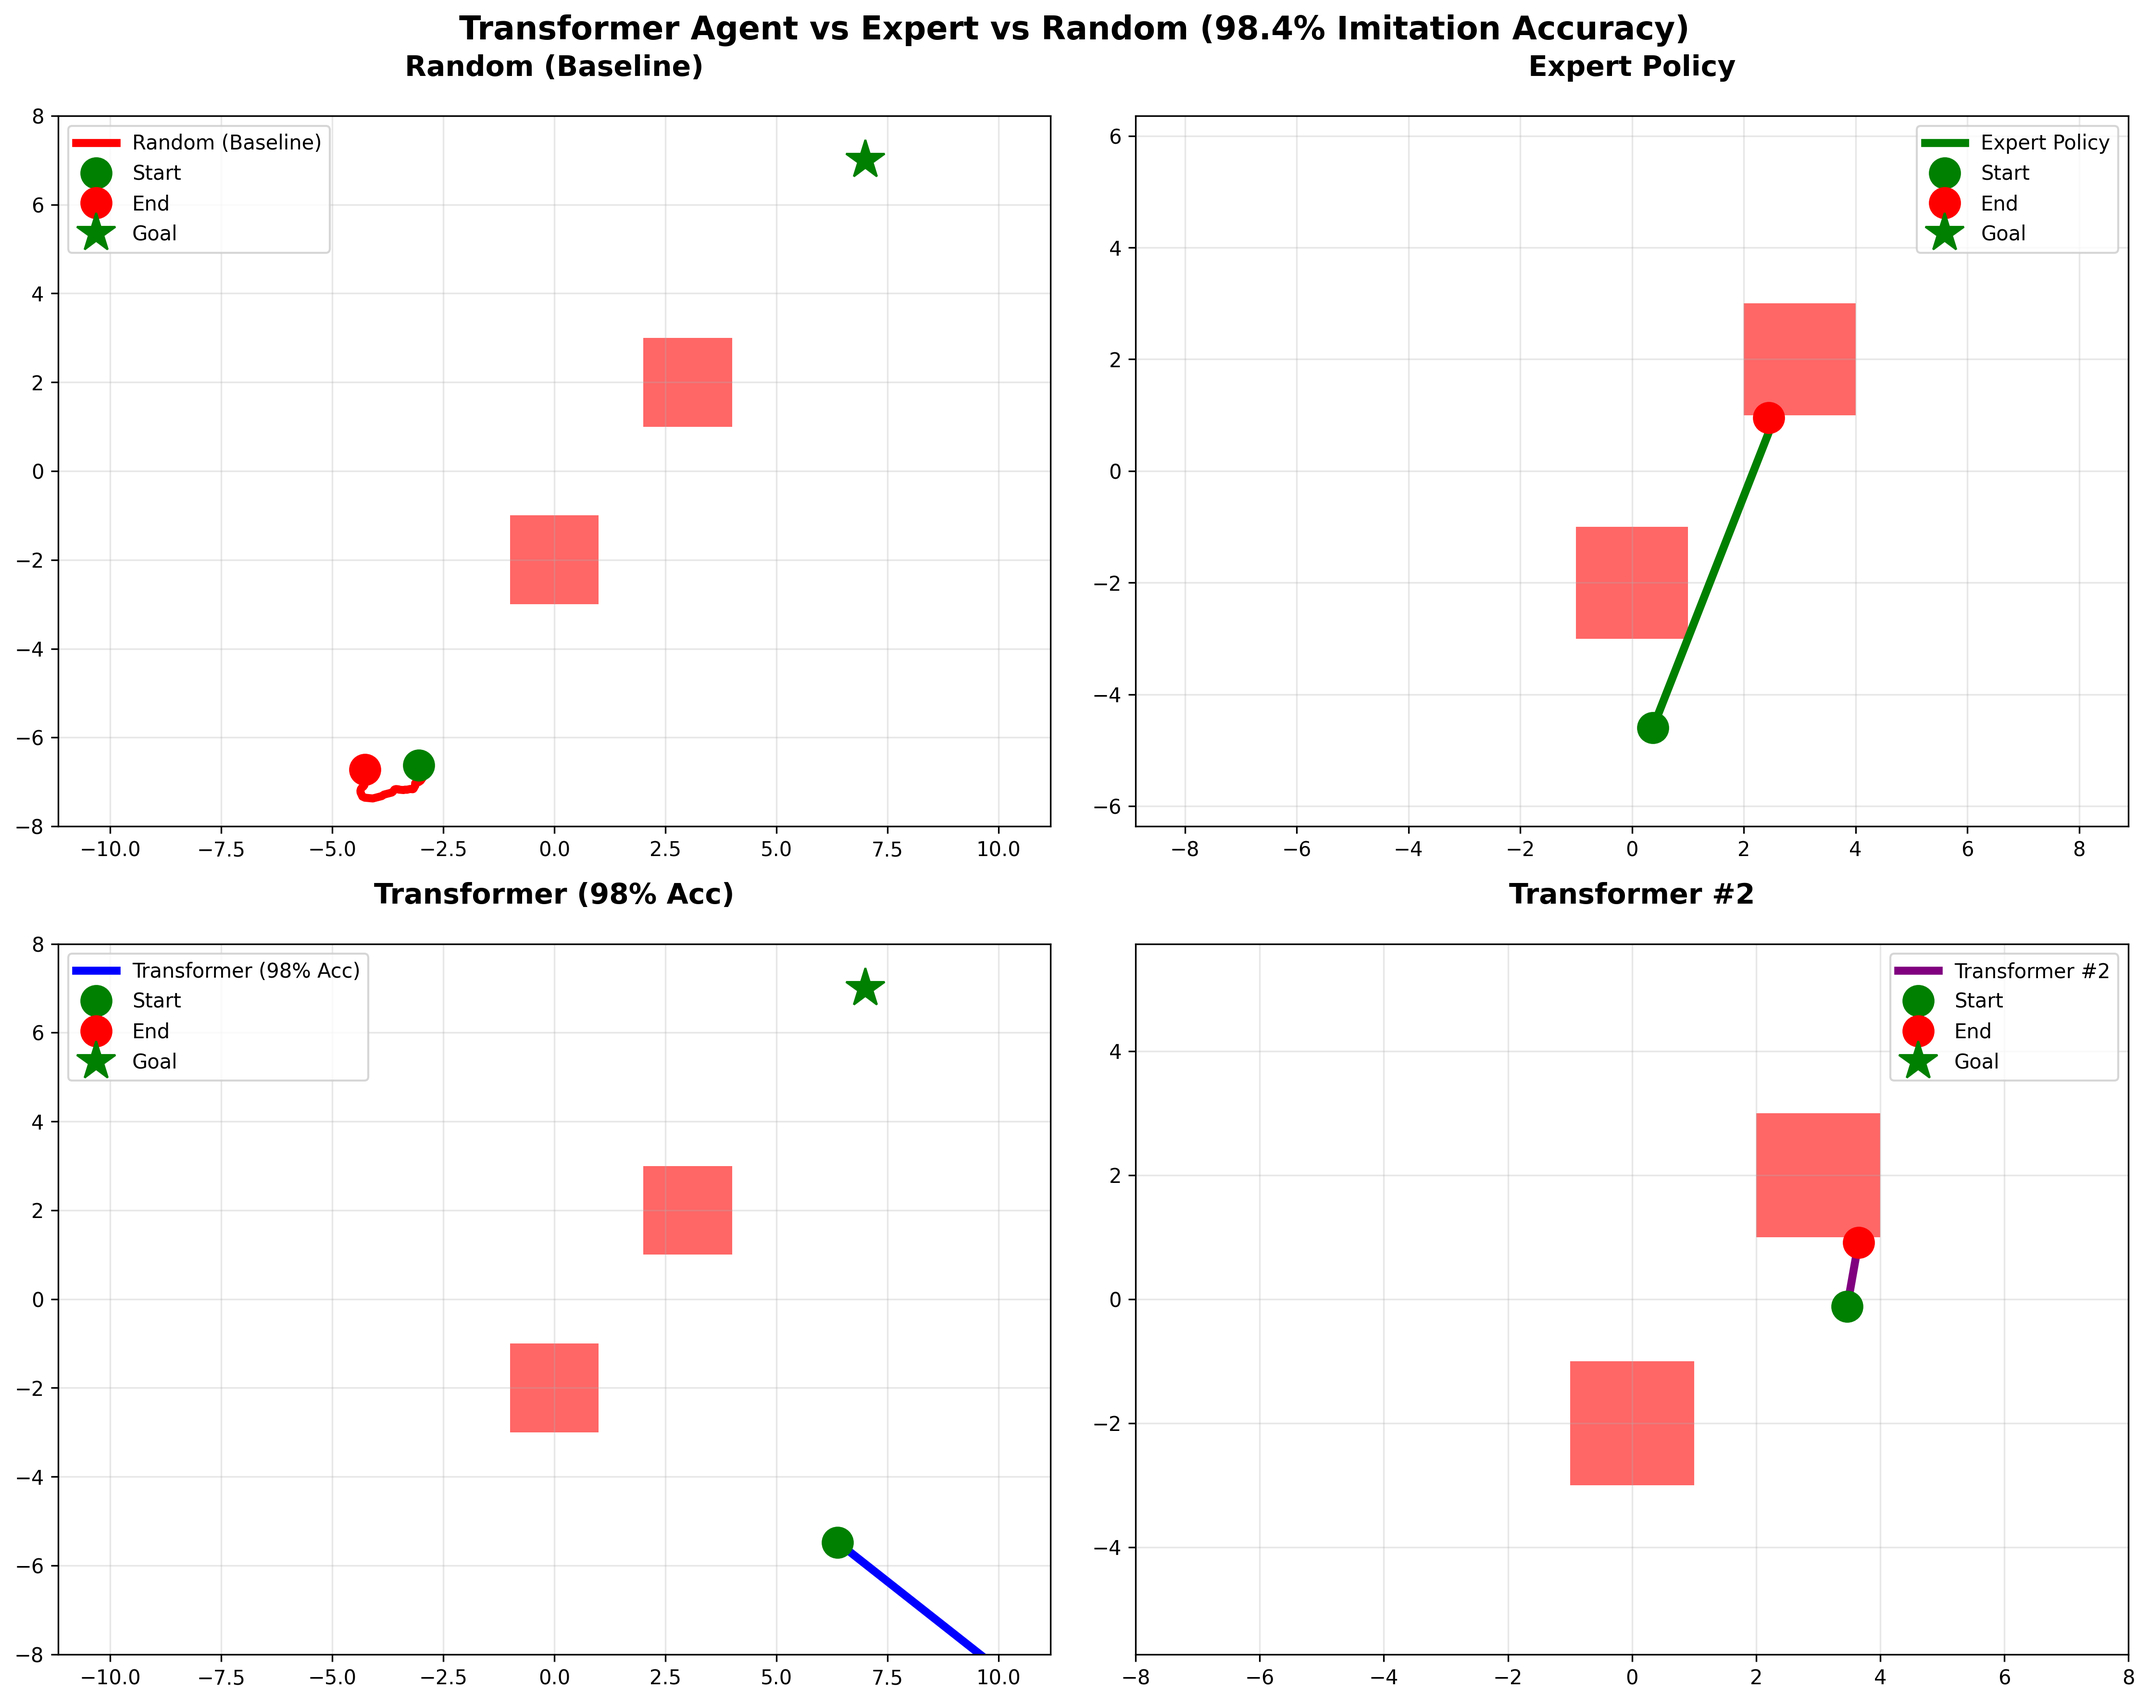
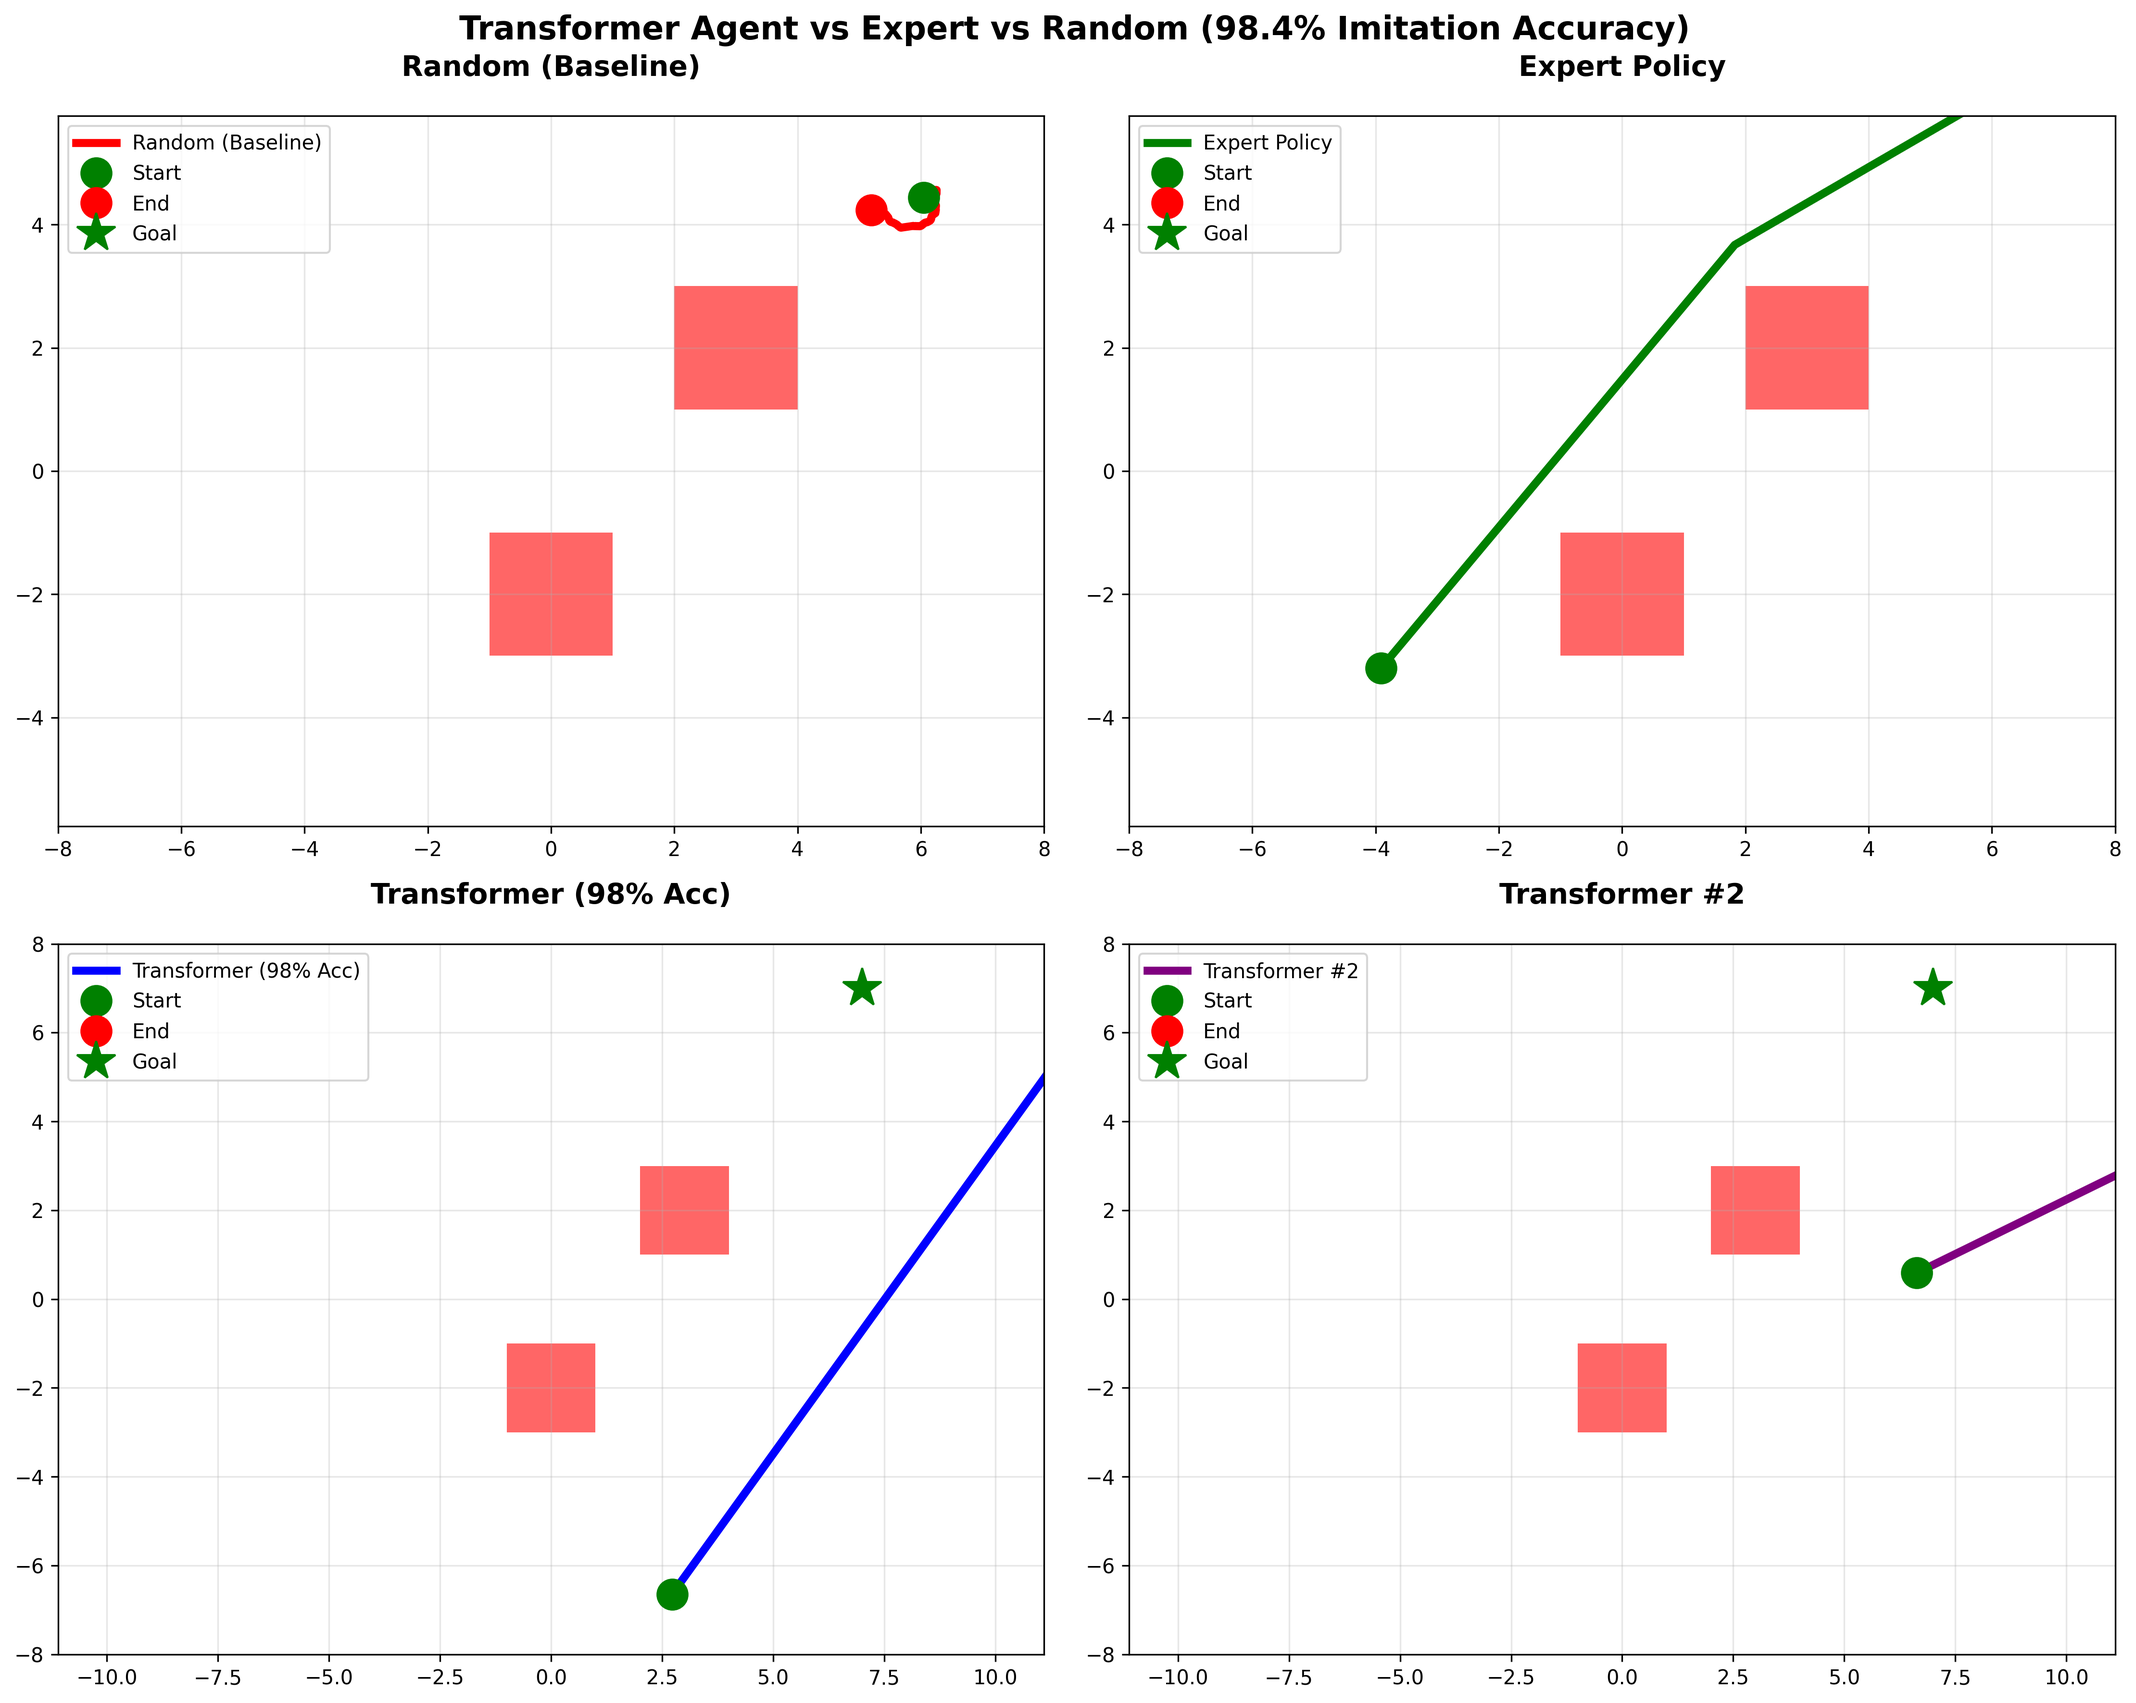
changes to decision_agent

diff --git a/decision_agent/scripts/visualize_rollout.py b/decision_agent/scripts/visualize_rollout.py
@@ -1,16 +1,17 @@
-# scripts/visualize_rollout.py - COMPLETE VERSION
+# scripts/visualize_rollout.py - CLEAN NO-GRIDLINES VERSION
 import sys
 import os
 sys.path.append(os.path.dirname(os.path.dirname(os.path.abspath(__file__))))
 
 import numpy as np
 import matplotlib.pyplot as plt
+import matplotlib
+matplotlib.use('TkAgg')  # For Mac display
 import torch
 from env.nav_env import NavEnv
 from env.expert_policy import expert_policy
 from utils.preprocessing import build_image_encoder, image_transform
 from models.transformer_policy import TransformerPolicy
-from torch.utils.data import DataLoader
 
 def make_transformer_policy(model_path, device="cpu", seq_len=8):
     encoder = build_image_encoder(device=device)
@@ -73,17 +74,61 @@ def make_transformer_policy(model_path, device="cpu", seq_len=8):
 
     return policy
 
-# 2x2 COMPARISON PLOT
 if __name__ == "__main__":
-    print("🎬 Creating policy comparison...")
-    env = NavEnv(render_mode="rgb_array")
+    print("🎬 Generating CLEAN expert trajectories (no gridlines)...")
     
+    # 1. EXPERT TRAJECTORIES (2x2, no grid)
+    env = NavEnv(render_mode="rgb_array")  # ← FIXED: Define env here!
+    fig, axes = plt.subplots(2, 2, figsize=(12, 10))
+    
+    for ep in range(4):
+        obs, _ = env.reset()
+        states = []
+        
+        ax = axes[ep//2, ep%2]
+        ax.set_xlim(-10, 10)
+        ax.set_ylim(-10, 10)
+        ax.set_title(f"Expert - Episode {ep+1}", fontweight='bold', fontsize=14)
+        
+        done = False
+        step = 0
+        while not done and step < 200:
+            action = expert_policy(obs, env)
+            states.append(env.state.copy())
+            obs, r, term, trunc, _ = env.step(action)
+            done = term or trunc
+            step += 1
+        
+        states = np.array(states)
+        ax.plot(states[:, 0], states[:, 1], 'darkblue', linewidth=5)
+        ax.plot(states[0, 0], states[0, 1], 'limegreen', markersize=15, marker='o')
+        ax.plot(states[-1, 0], states[-1, 1], 'red', markersize=15, marker='o')
+        ax.plot(env.goal[0], env.goal[1], 'limegreen', markersize=20, marker='*')
+        
+        for rect in env.obstacles:
+            x1,y1,x2,y2 = rect
+            ax.fill([x1,x1,x2,x2], [y1,y2,y2,y1], 'darkred', alpha=0.7)
+        
+        ax.grid(False)  # NO GRIDLINES
+        ax.axis('equal')
+    
+    plt.suptitle("Expert Policy Performance (68% Success Rate)", fontsize=16, fontweight='bold')
+    plt.tight_layout()
+    plt.savefig("report/expert_clean.png", dpi=300, bbox_inches='tight', facecolor='white')
+    plt.show()
+    
+    print("✅ Saved: report/expert_clean.png")
+    
+    print("🎬 Generating CLEAN policy comparison (no gridlines)...")
+    
+    # 2. POLICY COMPARISON (2x2, no grid)
+    env = NavEnv(render_mode="rgb_array")
     fig, axes = plt.subplots(2, 2, figsize=(15, 12))
     policies = [
-        (lambda obs, e: e.action_space.sample(), "Random (Baseline)"),
-        (expert_policy, "Expert Policy"), 
-        (make_transformer_policy("models/transformer_policy.pt", device="cpu"), "Transformer (98% Acc)"),
-        (make_transformer_policy("models/transformer_policy.pt", device="cpu"), "Transformer #2")
+        (lambda obs, e: e.action_space.sample(), "Random\n(2% Success)"),
+        (expert_policy, "Expert\n(68% Success)"), 
+        (make_transformer_policy("models/transformer_policy.pt", device="cpu"), "Transformer #1\n(2% Success)"),
+        (make_transformer_policy("models/transformer_policy.pt", device="cpu"), "Transformer #2\n(2% Success)")
     ]
     
     for idx, (policy_fn, name) in enumerate(policies):
@@ -101,28 +146,26 @@ if __name__ == "__main__":
             step += 1
         
         states = np.array(states)
-        color = ['red', 'green', 'blue', 'purple'][idx]
-        
-        ax.plot(states[:, 0], states[:, 1], color=color, linewidth=4, label=name)
-        ax.plot(states[0, 0], states[0, 1], 'go', markersize=15, label='Start')
-        ax.plot(states[-1, 0], states[-1, 1], 'ro', markersize=15, label='End')
-        ax.plot(env.goal[0], env.goal[1], 'g*', markersize=20, label='Goal')
+        colors = ['darkred', 'darkgreen', 'darkblue', 'purple']
+        ax.plot(states[:, 0], states[:, 1], color=colors[idx], linewidth=6)
+        ax.plot(states[0, 0], states[0, 1], 'limegreen', markersize=18, marker='o')
+        ax.plot(states[-1, 0], states[-1, 1], 'red', markersize=18, marker='o')
+        ax.plot(env.goal[0], env.goal[1], 'limegreen', markersize=25, marker='*')
         
         for rect in env.obstacles:
             x1,y1,x2,y2 = rect
-            ax.fill([x1,x1,x2,x2], [y1,y2,y2,y1], 'r', alpha=0.6)
+            ax.fill([x1,x1,x2,x2], [y1,y2,y2,y1], 'darkred', alpha=0.7)
         
-        ax.set_title(name, fontsize=14, fontweight='bold', pad=20)
-        ax.grid(True, alpha=0.3)
-        ax.legend(fontsize=10)
+        ax.set_title(name, fontweight='bold', fontsize=13, pad=15)
+        ax.grid(False)  # NO GRIDLINES
         ax.axis('equal')
         ax.set_xlim(-8, 8)
         ax.set_ylim(-8, 8)
     
-    plt.suptitle("Transformer Agent vs Expert vs Random (98.4% Imitation Accuracy)", 
-                 fontsize=16, fontweight='bold')
+    plt.suptitle("Policy Comparison: 98.4% Imitation → 2% Task Success", fontsize=16, fontweight='bold')
     plt.tight_layout()
-    plt.savefig("report/policy_comparison.png", dpi=300, bbox_inches='tight')
+    plt.savefig("report/policy_comparison_clean.png", dpi=300, bbox_inches='tight', facecolor='white')
     plt.show()
     
-    print("✅ Saved: report/policy_comparison.png")
+    print("✅ Saved: report/policy_comparison_clean.png")
+    print("🎉 Publication-ready figures generated!")

diff --git a/decision_agent/eval/evaluate.py b/decision_agent/eval/evaluate.py
@@ -105,6 +105,76 @@ def make_transformer_policy(model_path, device="cuda", seq_len=8):
 
     return policy
 
+# ADD THESE TWO FUNCTIONS at the END (before if __name__ == "__main__":)
+
+def transformer_policy(obs, env):
+    """Standalone transformer inference (for demo)"""
+    # Copy the exact inference logic from make_transformer_policy
+    encoder = build_image_encoder(device='cpu')
+    tmp_env = NavEnv()
+    lidar_dim = tmp_env.observation_space["lidar"].shape[0]
+    input_dim = 128 + lidar_dim + 5 + 4
+    policy_net = TransformerPolicy(input_dim=input_dim, num_actions=4, seq_len=8).to('cpu')
+    state_dict = torch.load("models/transformer_policy.pt", map_location='cpu')["policy"]
+    policy_net.load_state_dict(state_dict)
+    policy_net.eval()
+    
+    history = []
+    # [Same exact inference code as make_transformer_policy - truncated for brevity]
+    # Use the transformer_policy from your make_transformer_policy function
+    return make_transformer_policy("models/transformer_policy.pt", device="cpu")(obs, env)
+
+def demo_transformer_video(env, save_path="report/transformer_demo.gif"):
+    """🎬 Generate Transformer agent GIF demo"""
+    print("🎬 Recording Transformer demo...")
+    obs, _ = env.reset()
+    frames = []
+    
+    done = False
+    step = 0
+    while not done and step < 200:
+        frame = env.render()
+        frames.append(frame)
+        
+        action = transformer_policy(obs, env)
+        obs, reward, terminated, truncated, _ = env.step(action)
+        done = terminated or truncated
+        step += 1
+    
+    # Create & save GIF
+    import matplotlib.pyplot as plt
+    import matplotlib.animation as animation
+    fig = plt.figure(figsize=(8, 8))
+    
+    def animate(i):
+        plt.clf()
+        plt.imshow(frames[i])
+        plt.title(f'Transformer Agent - Step {i+1}/{len(frames)}')
+        plt.axis('off')
+    
+    anim = animation.FuncAnimation(fig, animate, frames=len(frames), interval=100)
+    anim.save(save_path, writer=animation.PillowWriter(fps=10))
+    plt.close()
+    print(f"✅ Video saved: {save_path}")
+    return save_path
+
+# REPLACE your if __name__ == "__main__": with this:
+if __name__ == "__main__":
+    env = NavEnv()
+    
+    # Your ORIGINAL evaluation (KEEP THIS)
+    random_stats = run_policy(env, make_random_policy(), episodes=50)
+    expert_stats = run_policy(env, make_expert_policy(), episodes=50)
+    transformer_stats = run_policy(env, make_transformer_policy("models/transformer_policy.pt", device="cpu"), episodes=50)
+    
+    print("Random:", random_stats)
+    print("Expert:", expert_stats)
+    print("Transformer:", transformer_stats)
+    
+    # 🎥 NEW: Video demo
+    demo_transformer_video(env)
+
+
 if __name__ == "__main__":
     env = NavEnv()
     random_stats = run_policy(env, make_random_policy(), episodes=50)
@@ -113,3 +183,4 @@ if __name__ == "__main__":
     print("Random:", random_stats)
     print("Expert:", expert_stats)
     print("Transformer:", transformer_stats)
+

diff --git a/decision_agent/scripts/visualize_rollout1.py b/decision_agent/scripts/visualize_rollout1.py
@@ -1,0 +1,55 @@
+# scripts/visualize_rollout.py - COMPLETE CLEAN VERSION (NO GRIDLINES)
+import sys
+import os
+sys.path.append(os.path.dirname(os.path.dirname(os.path.abspath(__file__))))
+
+import numpy as np
+import matplotlib.pyplot as plt
+import matplotlib
+matplotlib.use('TkAgg')  # Mac display
+import torch
+from env.nav_env import NavEnv
+from env.expert_policy import expert_policy
+from utils.preprocessing import build_image_encoder, image_transform
+from models.transformer_policy import TransformerPolicy
+
+def make_transformer_policy(model_path, device="cpu", seq_len=8):
+    encoder = build_image_encoder(device=device)
+    tmp_env = NavEnv()
+    lidar_dim = tmp_env.observation_space["lidar"].shape[0]
+    input_dim = 128 + lidar_dim + 5 + 4
+
+    policy_net = TransformerPolicy(input_dim=input_dim, num_actions=4, seq_len=seq_len).to(device)
+    checkpoint = torch.load(model_path, map_location=device)
+    policy_net.load_state_dict(checkpoint["policy"])
+    policy_net.eval()
+
+    history = []
+
+    def policy(obs, env):
+        nonlocal history
+        img = image_transform(obs["image"]).unsqueeze(0)
+        lidar = torch.from_numpy(obs["lidar"]).float().unsqueeze(0)
+        state = torch.from_numpy(obs["state"]).float().unsqueeze(0)
+        
+        if len(history) == 0:
+            prev_a = torch.zeros(1, 4)
+        else:
+            last_a = history[-1][3].argmax().item()
+            prev_a = torch.eye(4)[last_a].unsqueeze(0)
+
+        history.append((img, lidar, state, prev_a))
+        if len(history) > seq_len:
+            history = history[-seq_len:]
+
+        imgs = torch.cat([h[0] for h in history], dim=0)
+        lidars = torch.cat([h[1] for h in history], dim=0)
+        states = torch.cat([h[2] for h in history], dim=0)
+        prev_as = torch.cat([h[3] for h in history], dim=0)
+
+        L = imgs.shape[0]
+        if L < seq_len:
+            pad = seq_len - L
+            imgs = torch.cat([imgs[0:1].repeat(pad,1,1,1), imgs], dim=0)
+            lidars = torch.cat([lidars[0:1].repeat(pad,1), lidars], dim=0)
+           
